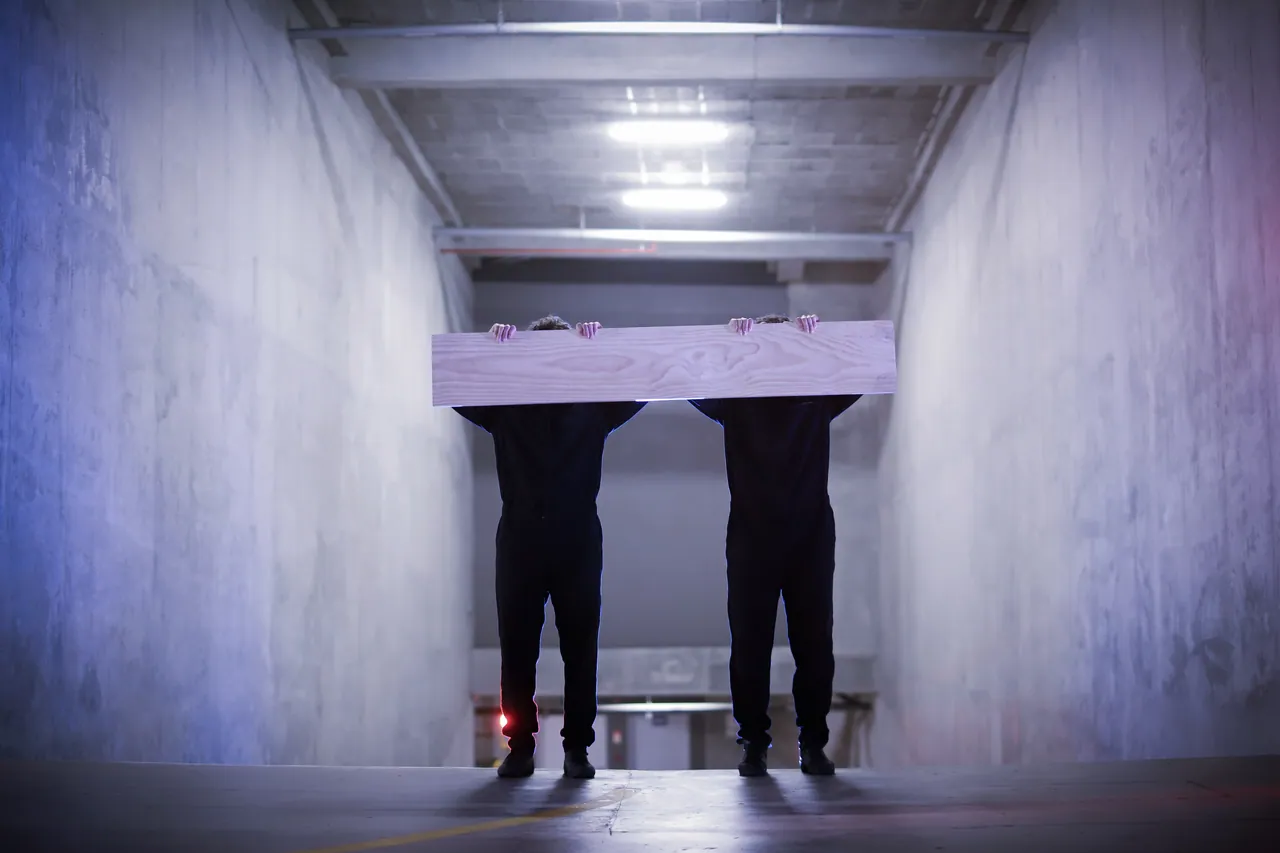
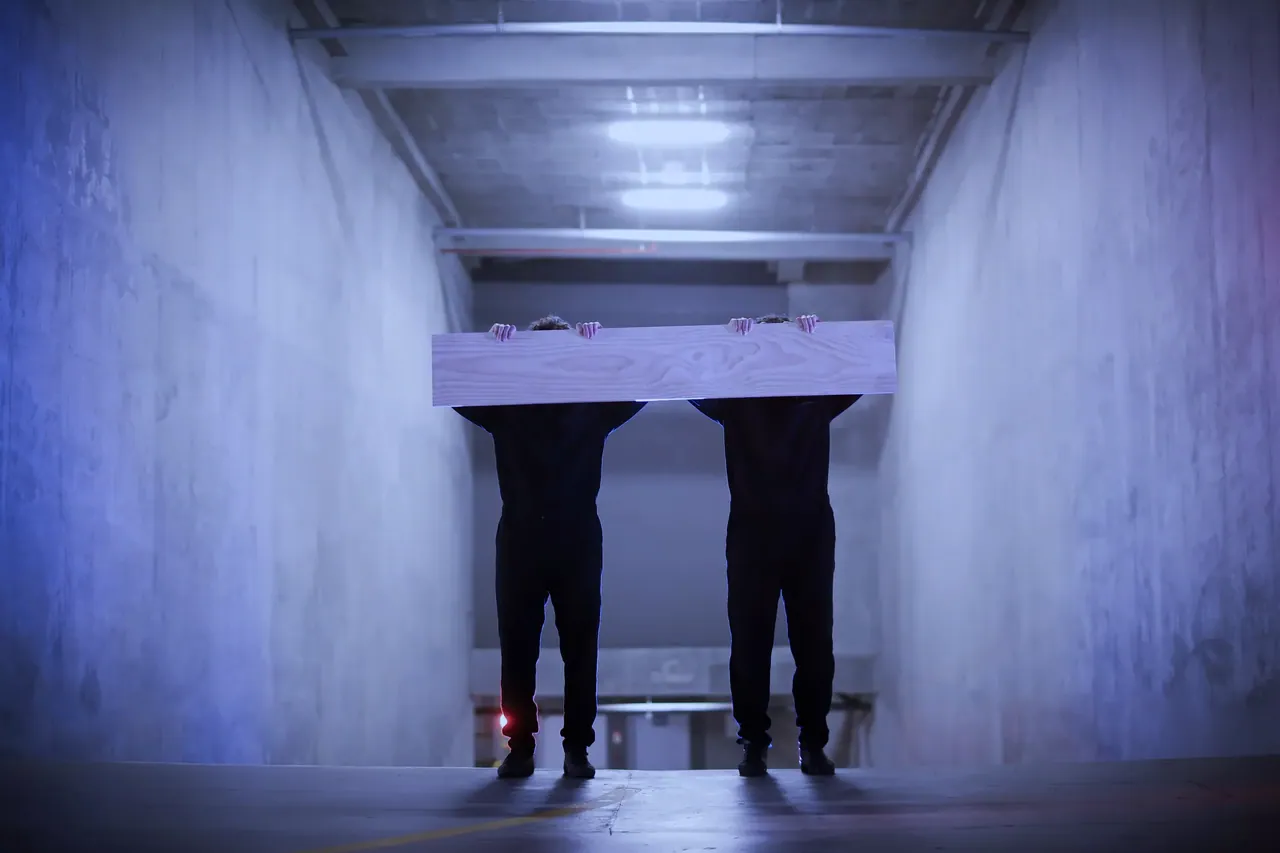
Serie Los Innato en Arte y primera foto con el mismo color que las demás
Claude-Session: https://claude.ai/code/session_01N27QzhJah2dkeR4J7tVUw5

diff --git a/en/photo/fine-art/index.html b/en/photo/fine-art/index.html
@@ -24,7 +24,7 @@
 <script>document.documentElement.classList.add('js')</script>
 <script async src="https://www.googletagmanager.com/gtag/js?id=G-TY6Y414RXR"></script>
 <script>window.dataLayer=window.dataLayer||[];function gtag(){dataLayer.push(arguments)}gtag('js',new Date());gtag('config','G-TY6Y414RXR');</script>
-<script type="application/ld+json">{"@context": "https://schema.org", "@graph": [{"@id": "https://personacr.github.io/personaweb/#jpg", "@type": "Person", "alternateName": ["Jos\u00e9 Pablo Garc\u00eda", "Jose Pablo Garcia", "Jose Pablo Garc\u00eda \u00b7 PERSONA"], "brand": {"@id": "https://personacr.github.io/personaweb/#persona"}, "image": "https://personacr.github.io/personaweb/img/about/jose-pablo-garcia-1280.webp", "jobTitle": "Cineasta, fot\u00f3grafo y director esc\u00e9nico", "knowsAbout": ["Fotograf\u00eda de conciertos", "Fotograf\u00eda de danza", "Fotograf\u00eda de teatro", "Direcci\u00f3n de fotograf\u00eda", "Videoclips", "Direcci\u00f3n esc\u00e9nica"], "name": "Jose Pablo Garc\u00eda", "nationality": "Costa Rica", "sameAs": ["https://www.instagram.com/persona.cr", "https://vimeo.com/personacr", "https://www.linkedin.com/in/josepablogarcia/", "https://bio.persona.cr"]}, {"@id": "https://personacr.github.io/personaweb/#persona", "@type": "ProfessionalService", "areaServed": ["Costa Rica", "Centroam\u00e9rica"], "email": "josepablo@persona.cr", "founder": {"@id": "https://personacr.github.io/personaweb/#jpg"}, "name": "PERSONA", "url": "https://personacr.github.io/personaweb/"}, {"@type": "ImageGallery", "description": "Personal series and photomontages.", "hasPart": [{"@type": "ImageObject", "contentUrl": "https://personacr.github.io/personaweb/img/photo/arte/parallel-perceptions-arte-01-1280.webp", "copyrightNotice": "\u00a9 Jose Pablo Garc\u00eda", "creator": {"@id": "https://personacr.github.io/personaweb/#jpg"}, "creditText": "Jose Pablo Garc\u00eda / PERSONA", "name": "Island with a tree, Parallel Perceptions series \u2014 Parallel Perceptions"}, {"@type": "ImageObject", "contentUrl": "https://personacr.github.io/personaweb/img/photo/arte/parallel-perceptions-arte-02-1280.webp", "copyrightNotice": "\u00a9 Jose Pablo Garc\u00eda", "creator": {"@id": "https://personacr.github.io/personaweb/#jpg"}, "creditText": "Jose Pablo Garc\u00eda / PERSONA", "name": "Body in mid-air beside a metal structure, Parallel Perceptions \u2014 Parallel Perceptions"}, {"@type": "ImageObject", "contentUrl": "https://personacr.github.io/personaweb/img/photo/arte/parallel-perceptions-arte-03-1280.webp", "copyrightNotice": "\u00a9 Jose Pablo Garc\u00eda", "creator": {"@id": "https://personacr.github.io/personaweb/#jpg"}, "creditText": "Jose Pablo Garc\u00eda / PERSONA", "name": "Mirrored waterfall, Parallel Perceptions \u2014 Parallel Perceptions"}, {"@type": "ImageObject", "contentUrl": "https://personacr.github.io/personaweb/img/photo/arte/parallel-perceptions-arte-04-1280.webp", "copyrightNotice": "\u00a9 Jose Pablo Garc\u00eda", "creator": {"@id": "https://personacr.github.io/personaweb/#jpg"}, "creditText": "Jose Pablo Garc\u00eda / PERSONA", "name": "Body and bridge mirrored, Parallel Perceptions \u2014 Parallel Perceptions"}, {"@type": "ImageObject", "contentUrl": "https://personacr.github.io/personaweb/img/photo/arte/parallel-perceptions-arte-05-1280.webp", "copyrightNotice": "\u00a9 Jose Pablo Garc\u00eda", "creator": {"@id": "https://personacr.github.io/personaweb/#jpg"}, "creditText": "Jose Pablo Garc\u00eda / PERSONA", "name": "Facade and face mirrored, Parallel Perceptions \u2014 Parallel Perceptions"}, {"@type": "ImageObject", "contentUrl": "https://personacr.github.io/personaweb/img/photo/arte/parallel-perceptions-arte-06-1280.webp", "copyrightNotice": "\u00a9 Jose Pablo Garc\u00eda", "creator": {"@id": "https://personacr.github.io/personaweb/#jpg"}, "creditText": "Jose Pablo Garc\u00eda / PERSONA", "name": "Silhouette and tunnel, Parallel Perceptions \u2014 Parallel Perceptions"}, {"@type": "ImageObject", "contentUrl": "https://personacr.github.io/personaweb/img/photo/arte/arte-2021-07-1280.webp", "copyrightNotice": "\u00a9 Jose Pablo Garc\u00eda", "creator": {"@id": "https://personacr.github.io/personaweb/#jpg"}, "creditText": "Jose Pablo Garc\u00eda / PERSONA", "name": "Two figures carry a board in a parking garage \u2014 2021"}, {"@type": "ImageObject", "contentUrl": "https://personacr.github.io/personaweb/img/photo/arte/arte-2021-08-1280.webp", "copyrightNotice": "\u00a9 Jose Pablo Garc\u00eda", "creator": {"@id": "https://personacr.github.io/personaweb/#jpg"}, "creditText": "Jose Pablo Garc\u00eda / PERSONA", "name": "Two figures part ways in a parking garage \u2014 2021"}, {"@type": "ImageObject", "contentUrl": "https://personacr.github.io/personaweb/img/photo/arte/arte-2021-09-1280.webp", "copyrightNotice": "\u00a9 Jose Pablo Garc\u00eda", "creator": {"@id": "https://personacr.github.io/personaweb/#jpg"}, "creditText": "Jose Pablo Garc\u00eda / PERSONA", "name": "A kneeling figure in a parking garage \u2014 2021"}, {"@type": "ImageObject", "contentUrl": "https://personacr.github.io/personaweb/img/photo/arte/arte-2021-10-1280.webp", "copyrightNotice": "\u00a9 Jose Pablo Garc\u00eda", "creator": {"@id": "https://personacr.github.io/personaweb/#jpg"}, "creditText": "Jose Pablo Garc\u00eda / PERSONA", "name": "Two figures against a parking-garage wall \u2014 2021"}, {"@type": "ImageObject", "contentUrl": "https://personacr.github.io/personaweb/img/photo/arte/hyatt-place-arte-11-1280.webp", "copyrightNotice": "\u00a9 Jose Pablo Garc\u00eda", "creator": {"@id": "https://personacr.github.io/personaweb/#jpg"}, "creditText": "Jose Pablo Garc\u00eda / PERSONA", "name": "Geometric photomontage of a waterfall for Hyatt Place \u2014 Hyatt Place"}, {"@type": "ImageObject", "contentUrl": "https://personacr.github.io/personaweb/img/photo/arte/hyatt-place-arte-12-1280.webp", "copyrightNotice": "\u00a9 Jose Pablo Garc\u00eda", "creator": {"@id": "https://personacr.github.io/personaweb/#jpg"}, "creditText": "Jose Pablo Garc\u00eda / PERSONA", "name": "Geometric photomontage of a volcano for Hyatt Place \u2014 Hyatt Place"}, {"@type": "ImageObject", "contentUrl": "https://personacr.github.io/personaweb/img/photo/arte/hyatt-place-arte-13-1280.webp", "copyrightNotice": "\u00a9 Jose Pablo Garc\u00eda", "creator": {"@id": "https://personacr.github.io/personaweb/#jpg"}, "creditText": "Jose Pablo Garc\u00eda / PERSONA", "name": "Photomontage of a tree for Hyatt Place \u2014 Hyatt Place"}, {"@type": "ImageObject", "contentUrl": "https://personacr.github.io/personaweb/img/photo/arte/hyatt-place-arte-14-1280.webp", "copyrightNotice": "\u00a9 Jose Pablo Garc\u00eda", "creator": {"@id": "https://personacr.github.io/personaweb/#jpg"}, "creditText": "Jose Pablo Garc\u00eda / PERSONA", "name": "Geometric photomontage of Bajos del Toro for Hyatt Place \u2014 Hyatt Place"}, {"@type": "ImageObject", "contentUrl": "https://personacr.github.io/personaweb/img/photo/arte/hyatt-place-arte-15-1280.webp", "copyrightNotice": "\u00a9 Jose Pablo Garc\u00eda", "creator": {"@id": "https://personacr.github.io/personaweb/#jpg"}, "creditText": "Jose Pablo Garc\u00eda / PERSONA", "name": "Kaleidoscope of Bajos del Toro for Hyatt Place \u2014 Hyatt Place"}, {"@type": "ImageObject", "contentUrl": "https://personacr.github.io/personaweb/img/photo/arte/hyatt-place-arte-16-1280.webp", "copyrightNotice": "\u00a9 Jose Pablo Garc\u00eda", "creator": {"@id": "https://personacr.github.io/personaweb/#jpg"}, "creditText": "Jose Pablo Garc\u00eda / PERSONA", "name": "Photomontage of squares and a flower for Hyatt Place \u2014 Hyatt Place"}, {"@type": "ImageObject", "contentUrl": "https://personacr.github.io/personaweb/img/photo/arte/arte-17-1280.webp", "copyrightNotice": "\u00a9 Jose Pablo Garc\u00eda", "creator": {"@id": "https://personacr.github.io/personaweb/#jpg"}, "creditText": "Jose Pablo Garc\u00eda / PERSONA", "name": "Figures reflected on the shore"}, {"@type": "ImageObject", "contentUrl": "https://personacr.github.io/personaweb/img/photo/arte/arte-18-1280.webp", "copyrightNotice": "\u00a9 Jose Pablo Garc\u00eda", "creator": {"@id": "https://personacr.github.io/personaweb/#jpg"}, "creditText": "Jose Pablo Garc\u00eda / PERSONA", "name": "Photomontage \u201cWhere is my mind\u201d"}], "name": "Fine art"}]}</script>
+<script type="application/ld+json">{"@context": "https://schema.org", "@graph": [{"@id": "https://personacr.github.io/personaweb/#jpg", "@type": "Person", "alternateName": ["Jos\u00e9 Pablo Garc\u00eda", "Jose Pablo Garcia", "Jose Pablo Garc\u00eda \u00b7 PERSONA"], "brand": {"@id": "https://personacr.github.io/personaweb/#persona"}, "image": "https://personacr.github.io/personaweb/img/about/jose-pablo-garcia-1280.webp", "jobTitle": "Cineasta, fot\u00f3grafo y director esc\u00e9nico", "knowsAbout": ["Fotograf\u00eda de conciertos", "Fotograf\u00eda de danza", "Fotograf\u00eda de teatro", "Direcci\u00f3n de fotograf\u00eda", "Videoclips", "Direcci\u00f3n esc\u00e9nica"], "name": "Jose Pablo Garc\u00eda", "nationality": "Costa Rica", "sameAs": ["https://www.instagram.com/persona.cr", "https://vimeo.com/personacr", "https://www.linkedin.com/in/josepablogarcia/", "https://bio.persona.cr"]}, {"@id": "https://personacr.github.io/personaweb/#persona", "@type": "ProfessionalService", "areaServed": ["Costa Rica", "Centroam\u00e9rica"], "email": "josepablo@persona.cr", "founder": {"@id": "https://personacr.github.io/personaweb/#jpg"}, "name": "PERSONA", "url": "https://personacr.github.io/personaweb/"}, {"@type": "ImageGallery", "description": "Personal series and photomontages.", "hasPart": [{"@type": "ImageObject", "contentUrl": "https://personacr.github.io/personaweb/img/photo/arte/parallel-perceptions-arte-01-1280.webp", "copyrightNotice": "\u00a9 Jose Pablo Garc\u00eda", "creator": {"@id": "https://personacr.github.io/personaweb/#jpg"}, "creditText": "Jose Pablo Garc\u00eda / PERSONA", "name": "Island with a tree, Parallel Perceptions series \u2014 Parallel Perceptions"}, {"@type": "ImageObject", "contentUrl": "https://personacr.github.io/personaweb/img/photo/arte/parallel-perceptions-arte-02-1280.webp", "copyrightNotice": "\u00a9 Jose Pablo Garc\u00eda", "creator": {"@id": "https://personacr.github.io/personaweb/#jpg"}, "creditText": "Jose Pablo Garc\u00eda / PERSONA", "name": "Body in mid-air beside a metal structure, Parallel Perceptions \u2014 Parallel Perceptions"}, {"@type": "ImageObject", "contentUrl": "https://personacr.github.io/personaweb/img/photo/arte/parallel-perceptions-arte-03-1280.webp", "copyrightNotice": "\u00a9 Jose Pablo Garc\u00eda", "creator": {"@id": "https://personacr.github.io/personaweb/#jpg"}, "creditText": "Jose Pablo Garc\u00eda / PERSONA", "name": "Mirrored waterfall, Parallel Perceptions \u2014 Parallel Perceptions"}, {"@type": "ImageObject", "contentUrl": "https://personacr.github.io/personaweb/img/photo/arte/parallel-perceptions-arte-04-1280.webp", "copyrightNotice": "\u00a9 Jose Pablo Garc\u00eda", "creator": {"@id": "https://personacr.github.io/personaweb/#jpg"}, "creditText": "Jose Pablo Garc\u00eda / PERSONA", "name": "Body and bridge mirrored, Parallel Perceptions \u2014 Parallel Perceptions"}, {"@type": "ImageObject", "contentUrl": "https://personacr.github.io/personaweb/img/photo/arte/parallel-perceptions-arte-05-1280.webp", "copyrightNotice": "\u00a9 Jose Pablo Garc\u00eda", "creator": {"@id": "https://personacr.github.io/personaweb/#jpg"}, "creditText": "Jose Pablo Garc\u00eda / PERSONA", "name": "Facade and face mirrored, Parallel Perceptions \u2014 Parallel Perceptions"}, {"@type": "ImageObject", "contentUrl": "https://personacr.github.io/personaweb/img/photo/arte/parallel-perceptions-arte-06-1280.webp", "copyrightNotice": "\u00a9 Jose Pablo Garc\u00eda", "creator": {"@id": "https://personacr.github.io/personaweb/#jpg"}, "creditText": "Jose Pablo Garc\u00eda / PERSONA", "name": "Silhouette and tunnel, Parallel Perceptions \u2014 Parallel Perceptions"}, {"@type": "ImageObject", "contentUrl": "https://personacr.github.io/personaweb/img/photo/arte/arte-2021-07-1280.webp", "copyrightNotice": "\u00a9 Jose Pablo Garc\u00eda", "creator": {"@id": "https://personacr.github.io/personaweb/#jpg"}, "creditText": "Jose Pablo Garc\u00eda / PERSONA", "name": "Two figures carry a board in a parking garage, Los Innato series \u2014 2021"}, {"@type": "ImageObject", "contentUrl": "https://personacr.github.io/personaweb/img/photo/arte/arte-2021-08-1280.webp", "copyrightNotice": "\u00a9 Jose Pablo Garc\u00eda", "creator": {"@id": "https://personacr.github.io/personaweb/#jpg"}, "creditText": "Jose Pablo Garc\u00eda / PERSONA", "name": "Two figures part ways in a parking garage, Los Innato series \u2014 2021"}, {"@type": "ImageObject", "contentUrl": "https://personacr.github.io/personaweb/img/photo/arte/arte-2021-09-1280.webp", "copyrightNotice": "\u00a9 Jose Pablo Garc\u00eda", "creator": {"@id": "https://personacr.github.io/personaweb/#jpg"}, "creditText": "Jose Pablo Garc\u00eda / PERSONA", "name": "A kneeling figure in a parking garage, Los Innato series \u2014 2021"}, {"@type": "ImageObject", "contentUrl": "https://personacr.github.io/personaweb/img/photo/arte/arte-2021-10-1280.webp", "copyrightNotice": "\u00a9 Jose Pablo Garc\u00eda", "creator": {"@id": "https://personacr.github.io/personaweb/#jpg"}, "creditText": "Jose Pablo Garc\u00eda / PERSONA", "name": "Two figures against a parking-garage wall, Los Innato series \u2014 2021"}, {"@type": "ImageObject", "contentUrl": "https://personacr.github.io/personaweb/img/photo/arte/hyatt-place-arte-11-1280.webp", "copyrightNotice": "\u00a9 Jose Pablo Garc\u00eda", "creator": {"@id": "https://personacr.github.io/personaweb/#jpg"}, "creditText": "Jose Pablo Garc\u00eda / PERSONA", "name": "Geometric photomontage of a waterfall for Hyatt Place \u2014 Hyatt Place"}, {"@type": "ImageObject", "contentUrl": "https://personacr.github.io/personaweb/img/photo/arte/hyatt-place-arte-12-1280.webp", "copyrightNotice": "\u00a9 Jose Pablo Garc\u00eda", "creator": {"@id": "https://personacr.github.io/personaweb/#jpg"}, "creditText": "Jose Pablo Garc\u00eda / PERSONA", "name": "Geometric photomontage of a volcano for Hyatt Place \u2014 Hyatt Place"}, {"@type": "ImageObject", "contentUrl": "https://personacr.github.io/personaweb/img/photo/arte/hyatt-place-arte-13-1280.webp", "copyrightNotice": "\u00a9 Jose Pablo Garc\u00eda", "creator": {"@id": "https://personacr.github.io/personaweb/#jpg"}, "creditText": "Jose Pablo Garc\u00eda / PERSONA", "name": "Photomontage of a tree for Hyatt Place \u2014 Hyatt Place"}, {"@type": "ImageObject", "contentUrl": "https://personacr.github.io/personaweb/img/photo/arte/hyatt-place-arte-14-1280.webp", "copyrightNotice": "\u00a9 Jose Pablo Garc\u00eda", "creator": {"@id": "https://personacr.github.io/personaweb/#jpg"}, "creditText": "Jose Pablo Garc\u00eda / PERSONA", "name": "Geometric photomontage of Bajos del Toro for Hyatt Place \u2014 Hyatt Place"}, {"@type": "ImageObject", "contentUrl": "https://personacr.github.io/personaweb/img/photo/arte/hyatt-place-arte-15-1280.webp", "copyrightNotice": "\u00a9 Jose Pablo Garc\u00eda", "creator": {"@id": "https://personacr.github.io/personaweb/#jpg"}, "creditText": "Jose Pablo Garc\u00eda / PERSONA", "name": "Kaleidoscope of Bajos del Toro for Hyatt Place \u2014 Hyatt Place"}, {"@type": "ImageObject", "contentUrl": "https://personacr.github.io/personaweb/img/photo/arte/hyatt-place-arte-16-1280.webp", "copyrightNotice": "\u00a9 Jose Pablo Garc\u00eda", "creator": {"@id": "https://personacr.github.io/personaweb/#jpg"}, "creditText": "Jose Pablo Garc\u00eda / PERSONA", "name": "Photomontage of squares and a flower for Hyatt Place \u2014 Hyatt Place"}, {"@type": "ImageObject", "contentUrl": "https://personacr.github.io/personaweb/img/photo/arte/arte-17-1280.webp", "copyrightNotice": "\u00a9 Jose Pablo Garc\u00eda", "creator": {"@id": "https://personacr.github.io/personaweb/#jpg"}, "creditText": "Jose Pablo Garc\u00eda / PERSONA", "name": "Figures reflected on the shore"}, {"@type": "ImageObject", "contentUrl": "https://personacr.github.io/personaweb/img/photo/arte/arte-18-1280.webp", "copyrightNotice": "\u00a9 Jose Pablo Garc\u00eda", "creator": {"@id": "https://personacr.github.io/personaweb/#jpg"}, "creditText": "Jose Pablo Garc\u00eda / PERSONA", "name": "Photomontage \u201cWhere is my mind\u201d"}], "name": "Fine art"}]}</script>
 </head>
 <body>
 <nav class="nav" aria-label="Menu">
@@ -59,14 +59,14 @@
   <img src="../../../img/photo/arte/parallel-perceptions-arte-05-1280.webp" srcset="../../../img/photo/arte/parallel-perceptions-arte-05-640.webp 640w, ../../../img/photo/arte/parallel-perceptions-arte-05-1280.webp 1280w, ../../../img/photo/arte/parallel-perceptions-arte-05-2048.webp 2048w" sizes="(max-width:700px) 50vw, 25vw" alt="Facade and face mirrored, Parallel Perceptions" width="1000" height="563" loading="lazy" decoding="async">
 </figure>    <figure class="it rv" tabindex="0" role="button" aria-label="Silhouette and tunnel, Parallel Perceptions" data-full="../../../img/photo/arte/parallel-perceptions-arte-06-2048.webp" style="--r:1.7762;--d:0.07s;background:#194b58">
   <img src="../../../img/photo/arte/parallel-perceptions-arte-06-1280.webp" srcset="../../../img/photo/arte/parallel-perceptions-arte-06-640.webp 640w, ../../../img/photo/arte/parallel-perceptions-arte-06-1280.webp 1280w, ../../../img/photo/arte/parallel-perceptions-arte-06-2048.webp 2048w" sizes="(max-width:700px) 50vw, 25vw" alt="Silhouette and tunnel, Parallel Perceptions" width="1000" height="563" loading="lazy" decoding="async">
-</figure><p class="label">Series 2021</p>    <figure class="it rv" tabindex="0" role="button" aria-label="Two figures carry a board in a parking garage" data-full="../../../img/photo/arte/arte-2021-07-2048.webp" style="--r:1.4993;--d:0.14s;background:#7c7c97">
-  <img src="../../../img/photo/arte/arte-2021-07-1280.webp" srcset="../../../img/photo/arte/arte-2021-07-640.webp 640w, ../../../img/photo/arte/arte-2021-07-1280.webp 1280w, ../../../img/photo/arte/arte-2021-07-2048.webp 2048w" sizes="(max-width:700px) 50vw, 25vw" alt="Two figures carry a board in a parking garage" width="1000" height="667" loading="lazy" decoding="async">
-</figure>    <figure class="it rv" tabindex="0" role="button" aria-label="Two figures part ways in a parking garage" data-full="../../../img/photo/arte/arte-2021-08-2048.webp" style="--r:1.4993;--d:0.21s;background:#626a97">
-  <img src="../../../img/photo/arte/arte-2021-08-1280.webp" srcset="../../../img/photo/arte/arte-2021-08-640.webp 640w, ../../../img/photo/arte/arte-2021-08-1280.webp 1280w, ../../../img/photo/arte/arte-2021-08-2048.webp 2048w" sizes="(max-width:700px) 50vw, 25vw" alt="Two figures part ways in a parking garage" width="1000" height="667" loading="lazy" decoding="async">
-</figure>    <figure class="it rv" tabindex="0" role="button" aria-label="A kneeling figure in a parking garage" data-full="../../../img/photo/arte/arte-2021-09-2048.webp" style="--r:1.4993;--d:0.0s;background:#6b739e">
-  <img src="../../../img/photo/arte/arte-2021-09-1280.webp" srcset="../../../img/photo/arte/arte-2021-09-640.webp 640w, ../../../img/photo/arte/arte-2021-09-1280.webp 1280w, ../../../img/photo/arte/arte-2021-09-2048.webp 2048w" sizes="(max-width:700px) 50vw, 25vw" alt="A kneeling figure in a parking garage" width="1000" height="667" loading="lazy" decoding="async">
-</figure>    <figure class="it rv" tabindex="0" role="button" aria-label="Two figures against a parking-garage wall" data-full="../../../img/photo/arte/arte-2021-10-2048.webp" style="--r:1.4993;--d:0.07s;background:#5e6797">
-  <img src="../../../img/photo/arte/arte-2021-10-1280.webp" srcset="../../../img/photo/arte/arte-2021-10-640.webp 640w, ../../../img/photo/arte/arte-2021-10-1280.webp 1280w, ../../../img/photo/arte/arte-2021-10-2048.webp 2048w" sizes="(max-width:700px) 50vw, 25vw" alt="Two figures against a parking-garage wall" width="1000" height="667" loading="lazy" decoding="async">
+</figure><p class="label">Los Innato</p>    <figure class="it rv" tabindex="0" role="button" aria-label="Two figures carry a board in a parking garage, Los Innato series" data-full="../../../img/photo/arte/arte-2021-07-2048.webp" style="--r:1.4993;--d:0.14s;background:#7c7c97">
+  <img src="../../../img/photo/arte/arte-2021-07-1280.webp" srcset="../../../img/photo/arte/arte-2021-07-640.webp 640w, ../../../img/photo/arte/arte-2021-07-1280.webp 1280w, ../../../img/photo/arte/arte-2021-07-2048.webp 2048w" sizes="(max-width:700px) 50vw, 25vw" alt="Two figures carry a board in a parking garage, Los Innato series" width="1000" height="667" loading="lazy" decoding="async">
+</figure>    <figure class="it rv" tabindex="0" role="button" aria-label="Two figures part ways in a parking garage, Los Innato series" data-full="../../../img/photo/arte/arte-2021-08-2048.webp" style="--r:1.4993;--d:0.21s;background:#626a97">
+  <img src="../../../img/photo/arte/arte-2021-08-1280.webp" srcset="../../../img/photo/arte/arte-2021-08-640.webp 640w, ../../../img/photo/arte/arte-2021-08-1280.webp 1280w, ../../../img/photo/arte/arte-2021-08-2048.webp 2048w" sizes="(max-width:700px) 50vw, 25vw" alt="Two figures part ways in a parking garage, Los Innato series" width="1000" height="667" loading="lazy" decoding="async">
+</figure>    <figure class="it rv" tabindex="0" role="button" aria-label="A kneeling figure in a parking garage, Los Innato series" data-full="../../../img/photo/arte/arte-2021-09-2048.webp" style="--r:1.4993;--d:0.0s;background:#6b739e">
+  <img src="../../../img/photo/arte/arte-2021-09-1280.webp" srcset="../../../img/photo/arte/arte-2021-09-640.webp 640w, ../../../img/photo/arte/arte-2021-09-1280.webp 1280w, ../../../img/photo/arte/arte-2021-09-2048.webp 2048w" sizes="(max-width:700px) 50vw, 25vw" alt="A kneeling figure in a parking garage, Los Innato series" width="1000" height="667" loading="lazy" decoding="async">
+</figure>    <figure class="it rv" tabindex="0" role="button" aria-label="Two figures against a parking-garage wall, Los Innato series" data-full="../../../img/photo/arte/arte-2021-10-2048.webp" style="--r:1.4993;--d:0.07s;background:#5e6797">
+  <img src="../../../img/photo/arte/arte-2021-10-1280.webp" srcset="../../../img/photo/arte/arte-2021-10-640.webp 640w, ../../../img/photo/arte/arte-2021-10-1280.webp 1280w, ../../../img/photo/arte/arte-2021-10-2048.webp 2048w" sizes="(max-width:700px) 50vw, 25vw" alt="Two figures against a parking-garage wall, Los Innato series" width="1000" height="667" loading="lazy" decoding="async">
 </figure><p class="label">Hyatt Place</p>    <figure class="it rv" tabindex="0" role="button" aria-label="Geometric photomontage of a waterfall for Hyatt Place" data-full="../../../img/photo/arte/hyatt-place-arte-11-2048.webp" style="--r:1.9231;--d:0.14s;background:#40544b">
   <img src="../../../img/photo/arte/hyatt-place-arte-11-1280.webp" srcset="../../../img/photo/arte/hyatt-place-arte-11-640.webp 640w, ../../../img/photo/arte/hyatt-place-arte-11-1280.webp 1280w, ../../../img/photo/arte/hyatt-place-arte-11-2048.webp 2048w" sizes="(max-width:700px) 50vw, 25vw" alt="Geometric photomontage of a waterfall for Hyatt Place" width="1000" height="520" loading="lazy" decoding="async">
 </figure>    <figure class="it rv" tabindex="0" role="button" aria-label="Geometric photomontage of a volcano for Hyatt Place" data-full="../../../img/photo/arte/hyatt-place-arte-12-2048.webp" style="--r:1.9231;--d:0.21s;background:#4e5451">

diff --git a/photo/arte/index.html b/photo/arte/index.html
@@ -24,7 +24,7 @@
 <script>document.documentElement.classList.add('js')</script>
 <script async src="https://www.googletagmanager.com/gtag/js?id=G-TY6Y414RXR"></script>
 <script>window.dataLayer=window.dataLayer||[];function gtag(){dataLayer.push(arguments)}gtag('js',new Date());gtag('config','G-TY6Y414RXR');</script>
-<script type="application/ld+json">{"@context": "https://schema.org", "@graph": [{"@id": "https://personacr.github.io/personaweb/#jpg", "@type": "Person", "alternateName": ["Jos\u00e9 Pablo Garc\u00eda", "Jose Pablo Garcia", "Jose Pablo Garc\u00eda \u00b7 PERSONA"], "brand": {"@id": "https://personacr.github.io/personaweb/#persona"}, "image": "https://personacr.github.io/personaweb/img/about/jose-pablo-garcia-1280.webp", "jobTitle": "Cineasta, fot\u00f3grafo y director esc\u00e9nico", "knowsAbout": ["Fotograf\u00eda de conciertos", "Fotograf\u00eda de danza", "Fotograf\u00eda de teatro", "Direcci\u00f3n de fotograf\u00eda", "Videoclips", "Direcci\u00f3n esc\u00e9nica"], "name": "Jose Pablo Garc\u00eda", "nationality": "Costa Rica", "sameAs": ["https://www.instagram.com/persona.cr", "https://vimeo.com/personacr", "https://www.linkedin.com/in/josepablogarcia/", "https://bio.persona.cr"]}, {"@id": "https://personacr.github.io/personaweb/#persona", "@type": "ProfessionalService", "areaServed": ["Costa Rica", "Centroam\u00e9rica"], "email": "josepablo@persona.cr", "founder": {"@id": "https://personacr.github.io/personaweb/#jpg"}, "name": "PERSONA", "url": "https://personacr.github.io/personaweb/"}, {"@type": "ImageGallery", "description": "Series personales y fotomontajes.", "hasPart": [{"@type": "ImageObject", "contentUrl": "https://personacr.github.io/personaweb/img/photo/arte/parallel-perceptions-arte-01-1280.webp", "copyrightNotice": "\u00a9 Jose Pablo Garc\u00eda", "creator": {"@id": "https://personacr.github.io/personaweb/#jpg"}, "creditText": "Jose Pablo Garc\u00eda / PERSONA", "name": "Isla con un \u00e1rbol, serie Parallel Perceptions \u2014 Parallel Perceptions"}, {"@type": "ImageObject", "contentUrl": "https://personacr.github.io/personaweb/img/photo/arte/parallel-perceptions-arte-02-1280.webp", "copyrightNotice": "\u00a9 Jose Pablo Garc\u00eda", "creator": {"@id": "https://personacr.github.io/personaweb/#jpg"}, "creditText": "Jose Pablo Garc\u00eda / PERSONA", "name": "Cuerpo en el aire junto a una estructura met\u00e1lica, Parallel Perceptions \u2014 Parallel Perceptions"}, {"@type": "ImageObject", "contentUrl": "https://personacr.github.io/personaweb/img/photo/arte/parallel-perceptions-arte-03-1280.webp", "copyrightNotice": "\u00a9 Jose Pablo Garc\u00eda", "creator": {"@id": "https://personacr.github.io/personaweb/#jpg"}, "creditText": "Jose Pablo Garc\u00eda / PERSONA", "name": "Cascada en espejo, Parallel Perceptions \u2014 Parallel Perceptions"}, {"@type": "ImageObject", "contentUrl": "https://personacr.github.io/personaweb/img/photo/arte/parallel-perceptions-arte-04-1280.webp", "copyrightNotice": "\u00a9 Jose Pablo Garc\u00eda", "creator": {"@id": "https://personacr.github.io/personaweb/#jpg"}, "creditText": "Jose Pablo Garc\u00eda / PERSONA", "name": "Cuerpo y puente en espejo, Parallel Perceptions \u2014 Parallel Perceptions"}, {"@type": "ImageObject", "contentUrl": "https://personacr.github.io/personaweb/img/photo/arte/parallel-perceptions-arte-05-1280.webp", "copyrightNotice": "\u00a9 Jose Pablo Garc\u00eda", "creator": {"@id": "https://personacr.github.io/personaweb/#jpg"}, "creditText": "Jose Pablo Garc\u00eda / PERSONA", "name": "Fachada y rostro en espejo, Parallel Perceptions \u2014 Parallel Perceptions"}, {"@type": "ImageObject", "contentUrl": "https://personacr.github.io/personaweb/img/photo/arte/parallel-perceptions-arte-06-1280.webp", "copyrightNotice": "\u00a9 Jose Pablo Garc\u00eda", "creator": {"@id": "https://personacr.github.io/personaweb/#jpg"}, "creditText": "Jose Pablo Garc\u00eda / PERSONA", "name": "Silueta y t\u00fanel, Parallel Perceptions \u2014 Parallel Perceptions"}, {"@type": "ImageObject", "contentUrl": "https://personacr.github.io/personaweb/img/photo/arte/arte-2021-07-1280.webp", "copyrightNotice": "\u00a9 Jose Pablo Garc\u00eda", "creator": {"@id": "https://personacr.github.io/personaweb/#jpg"}, "creditText": "Jose Pablo Garc\u00eda / PERSONA", "name": "Dos figuras cargan una tabla en un parqueo \u2014 2021"}, {"@type": "ImageObject", "contentUrl": "https://personacr.github.io/personaweb/img/photo/arte/arte-2021-08-1280.webp", "copyrightNotice": "\u00a9 Jose Pablo Garc\u00eda", "creator": {"@id": "https://personacr.github.io/personaweb/#jpg"}, "creditText": "Jose Pablo Garc\u00eda / PERSONA", "name": "Dos figuras se separan en un parqueo \u2014 2021"}, {"@type": "ImageObject", "contentUrl": "https://personacr.github.io/personaweb/img/photo/arte/arte-2021-09-1280.webp", "copyrightNotice": "\u00a9 Jose Pablo Garc\u00eda", "creator": {"@id": "https://personacr.github.io/personaweb/#jpg"}, "creditText": "Jose Pablo Garc\u00eda / PERSONA", "name": "Una figura arrodillada en un parqueo \u2014 2021"}, {"@type": "ImageObject", "contentUrl": "https://personacr.github.io/personaweb/img/photo/arte/arte-2021-10-1280.webp", "copyrightNotice": "\u00a9 Jose Pablo Garc\u00eda", "creator": {"@id": "https://personacr.github.io/personaweb/#jpg"}, "creditText": "Jose Pablo Garc\u00eda / PERSONA", "name": "Dos figuras contra la pared de un parqueo \u2014 2021"}, {"@type": "ImageObject", "contentUrl": "https://personacr.github.io/personaweb/img/photo/arte/hyatt-place-arte-11-1280.webp", "copyrightNotice": "\u00a9 Jose Pablo Garc\u00eda", "creator": {"@id": "https://personacr.github.io/personaweb/#jpg"}, "creditText": "Jose Pablo Garc\u00eda / PERSONA", "name": "Fotomontaje geom\u00e9trico de una catarata para Hyatt Place \u2014 Hyatt Place"}, {"@type": "ImageObject", "contentUrl": "https://personacr.github.io/personaweb/img/photo/arte/hyatt-place-arte-12-1280.webp", "copyrightNotice": "\u00a9 Jose Pablo Garc\u00eda", "creator": {"@id": "https://personacr.github.io/personaweb/#jpg"}, "creditText": "Jose Pablo Garc\u00eda / PERSONA", "name": "Fotomontaje geom\u00e9trico de un volc\u00e1n para Hyatt Place \u2014 Hyatt Place"}, {"@type": "ImageObject", "contentUrl": "https://personacr.github.io/personaweb/img/photo/arte/hyatt-place-arte-13-1280.webp", "copyrightNotice": "\u00a9 Jose Pablo Garc\u00eda", "creator": {"@id": "https://personacr.github.io/personaweb/#jpg"}, "creditText": "Jose Pablo Garc\u00eda / PERSONA", "name": "Fotomontaje de un \u00e1rbol para Hyatt Place \u2014 Hyatt Place"}, {"@type": "ImageObject", "contentUrl": "https://personacr.github.io/personaweb/img/photo/arte/hyatt-place-arte-14-1280.webp", "copyrightNotice": "\u00a9 Jose Pablo Garc\u00eda", "creator": {"@id": "https://personacr.github.io/personaweb/#jpg"}, "creditText": "Jose Pablo Garc\u00eda / PERSONA", "name": "Fotomontaje geom\u00e9trico de Bajos del Toro para Hyatt Place \u2014 Hyatt Place"}, {"@type": "ImageObject", "contentUrl": "https://personacr.github.io/personaweb/img/photo/arte/hyatt-place-arte-15-1280.webp", "copyrightNotice": "\u00a9 Jose Pablo Garc\u00eda", "creator": {"@id": "https://personacr.github.io/personaweb/#jpg"}, "creditText": "Jose Pablo Garc\u00eda / PERSONA", "name": "Caleidoscopio de Bajos del Toro para Hyatt Place \u2014 Hyatt Place"}, {"@type": "ImageObject", "contentUrl": "https://personacr.github.io/personaweb/img/photo/arte/hyatt-place-arte-16-1280.webp", "copyrightNotice": "\u00a9 Jose Pablo Garc\u00eda", "creator": {"@id": "https://personacr.github.io/personaweb/#jpg"}, "creditText": "Jose Pablo Garc\u00eda / PERSONA", "name": "Fotomontaje de cuadros y una flor para Hyatt Place \u2014 Hyatt Place"}, {"@type": "ImageObject", "contentUrl": "https://personacr.github.io/personaweb/img/photo/arte/arte-17-1280.webp", "copyrightNotice": "\u00a9 Jose Pablo Garc\u00eda", "creator": {"@id": "https://personacr.github.io/personaweb/#jpg"}, "creditText": "Jose Pablo Garc\u00eda / PERSONA", "name": "Figuras reflejadas en la orilla"}, {"@type": "ImageObject", "contentUrl": "https://personacr.github.io/personaweb/img/photo/arte/arte-18-1280.webp", "copyrightNotice": "\u00a9 Jose Pablo Garc\u00eda", "creator": {"@id": "https://personacr.github.io/personaweb/#jpg"}, "creditText": "Jose Pablo Garc\u00eda / PERSONA", "name": "Fotomontaje \u00abWhere is my mind\u00bb"}], "name": "Arte"}]}</script>
+<script type="application/ld+json">{"@context": "https://schema.org", "@graph": [{"@id": "https://personacr.github.io/personaweb/#jpg", "@type": "Person", "alternateName": ["Jos\u00e9 Pablo Garc\u00eda", "Jose Pablo Garcia", "Jose Pablo Garc\u00eda \u00b7 PERSONA"], "brand": {"@id": "https://personacr.github.io/personaweb/#persona"}, "image": "https://personacr.github.io/personaweb/img/about/jose-pablo-garcia-1280.webp", "jobTitle": "Cineasta, fot\u00f3grafo y director esc\u00e9nico", "knowsAbout": ["Fotograf\u00eda de conciertos", "Fotograf\u00eda de danza", "Fotograf\u00eda de teatro", "Direcci\u00f3n de fotograf\u00eda", "Videoclips", "Direcci\u00f3n esc\u00e9nica"], "name": "Jose Pablo Garc\u00eda", "nationality": "Costa Rica", "sameAs": ["https://www.instagram.com/persona.cr", "https://vimeo.com/personacr", "https://www.linkedin.com/in/josepablogarcia/", "https://bio.persona.cr"]}, {"@id": "https://personacr.github.io/personaweb/#persona", "@type": "ProfessionalService", "areaServed": ["Costa Rica", "Centroam\u00e9rica"], "email": "josepablo@persona.cr", "founder": {"@id": "https://personacr.github.io/personaweb/#jpg"}, "name": "PERSONA", "url": "https://personacr.github.io/personaweb/"}, {"@type": "ImageGallery", "description": "Series personales y fotomontajes.", "hasPart": [{"@type": "ImageObject", "contentUrl": "https://personacr.github.io/personaweb/img/photo/arte/parallel-perceptions-arte-01-1280.webp", "copyrightNotice": "\u00a9 Jose Pablo Garc\u00eda", "creator": {"@id": "https://personacr.github.io/personaweb/#jpg"}, "creditText": "Jose Pablo Garc\u00eda / PERSONA", "name": "Isla con un \u00e1rbol, serie Parallel Perceptions \u2014 Parallel Perceptions"}, {"@type": "ImageObject", "contentUrl": "https://personacr.github.io/personaweb/img/photo/arte/parallel-perceptions-arte-02-1280.webp", "copyrightNotice": "\u00a9 Jose Pablo Garc\u00eda", "creator": {"@id": "https://personacr.github.io/personaweb/#jpg"}, "creditText": "Jose Pablo Garc\u00eda / PERSONA", "name": "Cuerpo en el aire junto a una estructura met\u00e1lica, Parallel Perceptions \u2014 Parallel Perceptions"}, {"@type": "ImageObject", "contentUrl": "https://personacr.github.io/personaweb/img/photo/arte/parallel-perceptions-arte-03-1280.webp", "copyrightNotice": "\u00a9 Jose Pablo Garc\u00eda", "creator": {"@id": "https://personacr.github.io/personaweb/#jpg"}, "creditText": "Jose Pablo Garc\u00eda / PERSONA", "name": "Cascada en espejo, Parallel Perceptions \u2014 Parallel Perceptions"}, {"@type": "ImageObject", "contentUrl": "https://personacr.github.io/personaweb/img/photo/arte/parallel-perceptions-arte-04-1280.webp", "copyrightNotice": "\u00a9 Jose Pablo Garc\u00eda", "creator": {"@id": "https://personacr.github.io/personaweb/#jpg"}, "creditText": "Jose Pablo Garc\u00eda / PERSONA", "name": "Cuerpo y puente en espejo, Parallel Perceptions \u2014 Parallel Perceptions"}, {"@type": "ImageObject", "contentUrl": "https://personacr.github.io/personaweb/img/photo/arte/parallel-perceptions-arte-05-1280.webp", "copyrightNotice": "\u00a9 Jose Pablo Garc\u00eda", "creator": {"@id": "https://personacr.github.io/personaweb/#jpg"}, "creditText": "Jose Pablo Garc\u00eda / PERSONA", "name": "Fachada y rostro en espejo, Parallel Perceptions \u2014 Parallel Perceptions"}, {"@type": "ImageObject", "contentUrl": "https://personacr.github.io/personaweb/img/photo/arte/parallel-perceptions-arte-06-1280.webp", "copyrightNotice": "\u00a9 Jose Pablo Garc\u00eda", "creator": {"@id": "https://personacr.github.io/personaweb/#jpg"}, "creditText": "Jose Pablo Garc\u00eda / PERSONA", "name": "Silueta y t\u00fanel, Parallel Perceptions \u2014 Parallel Perceptions"}, {"@type": "ImageObject", "contentUrl": "https://personacr.github.io/personaweb/img/photo/arte/arte-2021-07-1280.webp", "copyrightNotice": "\u00a9 Jose Pablo Garc\u00eda", "creator": {"@id": "https://personacr.github.io/personaweb/#jpg"}, "creditText": "Jose Pablo Garc\u00eda / PERSONA", "name": "Dos figuras cargan una tabla en un parqueo, serie Los Innato \u2014 2021"}, {"@type": "ImageObject", "contentUrl": "https://personacr.github.io/personaweb/img/photo/arte/arte-2021-08-1280.webp", "copyrightNotice": "\u00a9 Jose Pablo Garc\u00eda", "creator": {"@id": "https://personacr.github.io/personaweb/#jpg"}, "creditText": "Jose Pablo Garc\u00eda / PERSONA", "name": "Dos figuras se separan en un parqueo, serie Los Innato \u2014 2021"}, {"@type": "ImageObject", "contentUrl": "https://personacr.github.io/personaweb/img/photo/arte/arte-2021-09-1280.webp", "copyrightNotice": "\u00a9 Jose Pablo Garc\u00eda", "creator": {"@id": "https://personacr.github.io/personaweb/#jpg"}, "creditText": "Jose Pablo Garc\u00eda / PERSONA", "name": "Una figura arrodillada en un parqueo, serie Los Innato \u2014 2021"}, {"@type": "ImageObject", "contentUrl": "https://personacr.github.io/personaweb/img/photo/arte/arte-2021-10-1280.webp", "copyrightNotice": "\u00a9 Jose Pablo Garc\u00eda", "creator": {"@id": "https://personacr.github.io/personaweb/#jpg"}, "creditText": "Jose Pablo Garc\u00eda / PERSONA", "name": "Dos figuras contra la pared de un parqueo, serie Los Innato \u2014 2021"}, {"@type": "ImageObject", "contentUrl": "https://personacr.github.io/personaweb/img/photo/arte/hyatt-place-arte-11-1280.webp", "copyrightNotice": "\u00a9 Jose Pablo Garc\u00eda", "creator": {"@id": "https://personacr.github.io/personaweb/#jpg"}, "creditText": "Jose Pablo Garc\u00eda / PERSONA", "name": "Fotomontaje geom\u00e9trico de una catarata para Hyatt Place \u2014 Hyatt Place"}, {"@type": "ImageObject", "contentUrl": "https://personacr.github.io/personaweb/img/photo/arte/hyatt-place-arte-12-1280.webp", "copyrightNotice": "\u00a9 Jose Pablo Garc\u00eda", "creator": {"@id": "https://personacr.github.io/personaweb/#jpg"}, "creditText": "Jose Pablo Garc\u00eda / PERSONA", "name": "Fotomontaje geom\u00e9trico de un volc\u00e1n para Hyatt Place \u2014 Hyatt Place"}, {"@type": "ImageObject", "contentUrl": "https://personacr.github.io/personaweb/img/photo/arte/hyatt-place-arte-13-1280.webp", "copyrightNotice": "\u00a9 Jose Pablo Garc\u00eda", "creator": {"@id": "https://personacr.github.io/personaweb/#jpg"}, "creditText": "Jose Pablo Garc\u00eda / PERSONA", "name": "Fotomontaje de un \u00e1rbol para Hyatt Place \u2014 Hyatt Place"}, {"@type": "ImageObject", "contentUrl": "https://personacr.github.io/personaweb/img/photo/arte/hyatt-place-arte-14-1280.webp", "copyrightNotice": "\u00a9 Jose Pablo Garc\u00eda", "creator": {"@id": "https://personacr.github.io/personaweb/#jpg"}, "creditText": "Jose Pablo Garc\u00eda / PERSONA", "name": "Fotomontaje geom\u00e9trico de Bajos del Toro para Hyatt Place \u2014 Hyatt Place"}, {"@type": "ImageObject", "contentUrl": "https://personacr.github.io/personaweb/img/photo/arte/hyatt-place-arte-15-1280.webp", "copyrightNotice": "\u00a9 Jose Pablo Garc\u00eda", "creator": {"@id": "https://personacr.github.io/personaweb/#jpg"}, "creditText": "Jose Pablo Garc\u00eda / PERSONA", "name": "Caleidoscopio de Bajos del Toro para Hyatt Place \u2014 Hyatt Place"}, {"@type": "ImageObject", "contentUrl": "https://personacr.github.io/personaweb/img/photo/arte/hyatt-place-arte-16-1280.webp", "copyrightNotice": "\u00a9 Jose Pablo Garc\u00eda", "creator": {"@id": "https://personacr.github.io/personaweb/#jpg"}, "creditText": "Jose Pablo Garc\u00eda / PERSONA", "name": "Fotomontaje de cuadros y una flor para Hyatt Place \u2014 Hyatt Place"}, {"@type": "ImageObject", "contentUrl": "https://personacr.github.io/personaweb/img/photo/arte/arte-17-1280.webp", "copyrightNotice": "\u00a9 Jose Pablo Garc\u00eda", "creator": {"@id": "https://personacr.github.io/personaweb/#jpg"}, "creditText": "Jose Pablo Garc\u00eda / PERSONA", "name": "Figuras reflejadas en la orilla"}, {"@type": "ImageObject", "contentUrl": "https://personacr.github.io/personaweb/img/photo/arte/arte-18-1280.webp", "copyrightNotice": "\u00a9 Jose Pablo Garc\u00eda", "creator": {"@id": "https://personacr.github.io/personaweb/#jpg"}, "creditText": "Jose Pablo Garc\u00eda / PERSONA", "name": "Fotomontaje \u00abWhere is my mind\u00bb"}], "name": "Arte"}]}</script>
 </head>
 <body>
 <nav class="nav" aria-label="Menú">
@@ -59,14 +59,14 @@
   <img src="../../img/photo/arte/parallel-perceptions-arte-05-1280.webp" srcset="../../img/photo/arte/parallel-perceptions-arte-05-640.webp 640w, ../../img/photo/arte/parallel-perceptions-arte-05-1280.webp 1280w, ../../img/photo/arte/parallel-perceptions-arte-05-2048.webp 2048w" sizes="(max-width:700px) 50vw, 25vw" alt="Fachada y rostro en espejo, Parallel Perceptions" width="1000" height="563" loading="lazy" decoding="async">
 </figure>    <figure class="it rv" tabindex="0" role="button" aria-label="Silueta y túnel, Parallel Perceptions" data-full="../../img/photo/arte/parallel-perceptions-arte-06-2048.webp" style="--r:1.7762;--d:0.07s;background:#194b58">
   <img src="../../img/photo/arte/parallel-perceptions-arte-06-1280.webp" srcset="../../img/photo/arte/parallel-perceptions-arte-06-640.webp 640w, ../../img/photo/arte/parallel-perceptions-arte-06-1280.webp 1280w, ../../img/photo/arte/parallel-perceptions-arte-06-2048.webp 2048w" sizes="(max-width:700px) 50vw, 25vw" alt="Silueta y túnel, Parallel Perceptions" width="1000" height="563" loading="lazy" decoding="async">
-</figure><p class="label">Serie 2021</p>    <figure class="it rv" tabindex="0" role="button" aria-label="Dos figuras cargan una tabla en un parqueo" data-full="../../img/photo/arte/arte-2021-07-2048.webp" style="--r:1.4993;--d:0.14s;background:#7c7c97">
-  <img src="../../img/photo/arte/arte-2021-07-1280.webp" srcset="../../img/photo/arte/arte-2021-07-640.webp 640w, ../../img/photo/arte/arte-2021-07-1280.webp 1280w, ../../img/photo/arte/arte-2021-07-2048.webp 2048w" sizes="(max-width:700px) 50vw, 25vw" alt="Dos figuras cargan una tabla en un parqueo" width="1000" height="667" loading="lazy" decoding="async">
-</figure>    <figure class="it rv" tabindex="0" role="button" aria-label="Dos figuras se separan en un parqueo" data-full="../../img/photo/arte/arte-2021-08-2048.webp" style="--r:1.4993;--d:0.21s;background:#626a97">
-  <img src="../../img/photo/arte/arte-2021-08-1280.webp" srcset="../../img/photo/arte/arte-2021-08-640.webp 640w, ../../img/photo/arte/arte-2021-08-1280.webp 1280w, ../../img/photo/arte/arte-2021-08-2048.webp 2048w" sizes="(max-width:700px) 50vw, 25vw" alt="Dos figuras se separan en un parqueo" width="1000" height="667" loading="lazy" decoding="async">
-</figure>    <figure class="it rv" tabindex="0" role="button" aria-label="Una figura arrodillada en un parqueo" data-full="../../img/photo/arte/arte-2021-09-2048.webp" style="--r:1.4993;--d:0.0s;background:#6b739e">
-  <img src="../../img/photo/arte/arte-2021-09-1280.webp" srcset="../../img/photo/arte/arte-2021-09-640.webp 640w, ../../img/photo/arte/arte-2021-09-1280.webp 1280w, ../../img/photo/arte/arte-2021-09-2048.webp 2048w" sizes="(max-width:700px) 50vw, 25vw" alt="Una figura arrodillada en un parqueo" width="1000" height="667" loading="lazy" decoding="async">
-</figure>    <figure class="it rv" tabindex="0" role="button" aria-label="Dos figuras contra la pared de un parqueo" data-full="../../img/photo/arte/arte-2021-10-2048.webp" style="--r:1.4993;--d:0.07s;background:#5e6797">
-  <img src="../../img/photo/arte/arte-2021-10-1280.webp" srcset="../../img/photo/arte/arte-2021-10-640.webp 640w, ../../img/photo/arte/arte-2021-10-1280.webp 1280w, ../../img/photo/arte/arte-2021-10-2048.webp 2048w" sizes="(max-width:700px) 50vw, 25vw" alt="Dos figuras contra la pared de un parqueo" width="1000" height="667" loading="lazy" decoding="async">
+</figure><p class="label">Los Innato</p>    <figure class="it rv" tabindex="0" role="button" aria-label="Dos figuras cargan una tabla en un parqueo, serie Los Innato" data-full="../../img/photo/arte/arte-2021-07-2048.webp" style="--r:1.4993;--d:0.14s;background:#7c7c97">
+  <img src="../../img/photo/arte/arte-2021-07-1280.webp" srcset="../../img/photo/arte/arte-2021-07-640.webp 640w, ../../img/photo/arte/arte-2021-07-1280.webp 1280w, ../../img/photo/arte/arte-2021-07-2048.webp 2048w" sizes="(max-width:700px) 50vw, 25vw" alt="Dos figuras cargan una tabla en un parqueo, serie Los Innato" width="1000" height="667" loading="lazy" decoding="async">
+</figure>    <figure class="it rv" tabindex="0" role="button" aria-label="Dos figuras se separan en un parqueo, serie Los Innato" data-full="../../img/photo/arte/arte-2021-08-2048.webp" style="--r:1.4993;--d:0.21s;background:#626a97">
+  <img src="../../img/photo/arte/arte-2021-08-1280.webp" srcset="../../img/photo/arte/arte-2021-08-640.webp 640w, ../../img/photo/arte/arte-2021-08-1280.webp 1280w, ../../img/photo/arte/arte-2021-08-2048.webp 2048w" sizes="(max-width:700px) 50vw, 25vw" alt="Dos figuras se separan en un parqueo, serie Los Innato" width="1000" height="667" loading="lazy" decoding="async">
+</figure>    <figure class="it rv" tabindex="0" role="button" aria-label="Una figura arrodillada en un parqueo, serie Los Innato" data-full="../../img/photo/arte/arte-2021-09-2048.webp" style="--r:1.4993;--d:0.0s;background:#6b739e">
+  <img src="../../img/photo/arte/arte-2021-09-1280.webp" srcset="../../img/photo/arte/arte-2021-09-640.webp 640w, ../../img/photo/arte/arte-2021-09-1280.webp 1280w, ../../img/photo/arte/arte-2021-09-2048.webp 2048w" sizes="(max-width:700px) 50vw, 25vw" alt="Una figura arrodillada en un parqueo, serie Los Innato" width="1000" height="667" loading="lazy" decoding="async">
+</figure>    <figure class="it rv" tabindex="0" role="button" aria-label="Dos figuras contra la pared de un parqueo, serie Los Innato" data-full="../../img/photo/arte/arte-2021-10-2048.webp" style="--r:1.4993;--d:0.07s;background:#5e6797">
+  <img src="../../img/photo/arte/arte-2021-10-1280.webp" srcset="../../img/photo/arte/arte-2021-10-640.webp 640w, ../../img/photo/arte/arte-2021-10-1280.webp 1280w, ../../img/photo/arte/arte-2021-10-2048.webp 2048w" sizes="(max-width:700px) 50vw, 25vw" alt="Dos figuras contra la pared de un parqueo, serie Los Innato" width="1000" height="667" loading="lazy" decoding="async">
 </figure><p class="label">Hyatt Place</p>    <figure class="it rv" tabindex="0" role="button" aria-label="Fotomontaje geométrico de una catarata para Hyatt Place" data-full="../../img/photo/arte/hyatt-place-arte-11-2048.webp" style="--r:1.9231;--d:0.14s;background:#40544b">
   <img src="../../img/photo/arte/hyatt-place-arte-11-1280.webp" srcset="../../img/photo/arte/hyatt-place-arte-11-640.webp 640w, ../../img/photo/arte/hyatt-place-arte-11-1280.webp 1280w, ../../img/photo/arte/hyatt-place-arte-11-2048.webp 2048w" sizes="(max-width:700px) 50vw, 25vw" alt="Fotomontaje geométrico de una catarata para Hyatt Place" width="1000" height="520" loading="lazy" decoding="async">
 </figure>    <figure class="it rv" tabindex="0" role="button" aria-label="Fotomontaje geométrico de un volcán para Hyatt Place" data-full="../../img/photo/arte/hyatt-place-arte-12-2048.webp" style="--r:1.9231;--d:0.21s;background:#4e5451">
